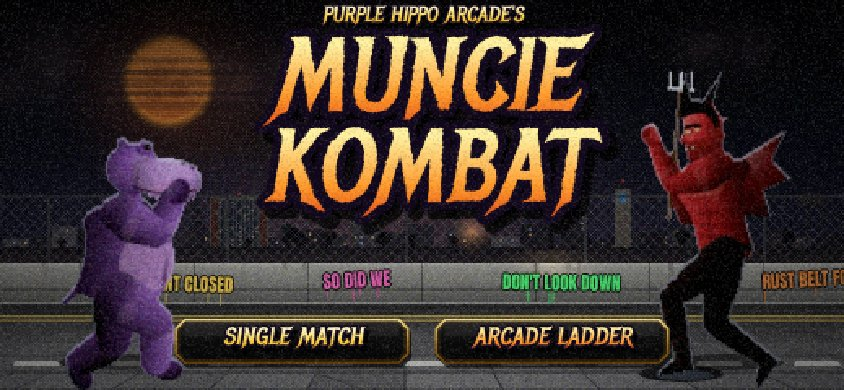
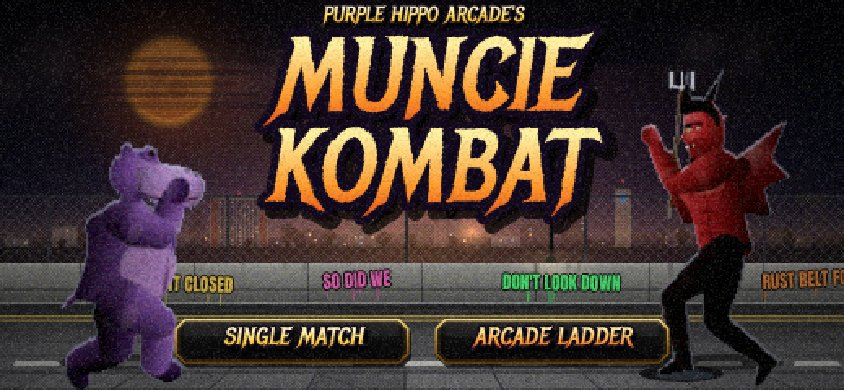
Glowier night over the title and ending screens; ending line: But Muncie will always be Muncie.
Claude-Session: https://claude.ai/code/session_01RATZJKSN4G9uQqnnTt55ev

diff --git a/js/config.js b/js/config.js
@@ -11,9 +11,18 @@ function overpassBackdrop(g, W, H, t) {
     g.imageSmoothingEnabled = false;
     g.drawImage(st.back, 730 - W / 2 / S, y0, W / S, H / S, 0, 0, W, H);
     g.imageSmoothingEnabled = true;
+    // a warm glow off the city and a cooler haze above it, added light so the night feels lit up
+    { g.save(); g.globalCompositeOperation = 'lighter';
+      let gl = g.createRadialGradient(W / 2, 150, 10, W / 2, 150, W * 0.6); gl.addColorStop(0, 'rgba(255,140,60,0.22)'); gl.addColorStop(0.5, 'rgba(160,60,60,0.10)'); gl.addColorStop(1, 'rgba(0,0,0,0)');
+      g.fillStyle = gl; g.fillRect(0, 40, W, 160);
+      gl = g.createLinearGradient(0, 110, 0, 160); gl.addColorStop(0, 'rgba(0,0,0,0)'); gl.addColorStop(0.7, 'rgba(255,170,90,0.16)'); gl.addColorStop(1, 'rgba(0,0,0,0)');
+      g.fillStyle = gl; g.fillRect(0, 110, W, 50);
+      gl = g.createRadialGradient(W / 2, 60, 10, W / 2, 60, W * 0.7); gl.addColorStop(0, 'rgba(120,80,160,0.12)'); gl.addColorStop(1, 'rgba(0,0,0,0)');
+      g.fillStyle = gl; g.fillRect(0, 0, W, 150);
+      g.restore(); }
     // a harvest moon, heavy and orange, smeared by haze and cloud
     { const mx = Math.max(30, Math.min(W * 0.2, W / 2 - 148)), my = 50, mr = 23, PI = Math.PI;
-      let m = g.createRadialGradient(mx, my, mr * 0.5, mx, my, mr * 3.2); m.addColorStop(0, 'rgba(255,140,40,0.28)'); m.addColorStop(0.4, 'rgba(200,80,30,0.12)'); m.addColorStop(1, 'rgba(120,40,30,0)');
+      let m = g.createRadialGradient(mx, my, mr * 0.5, mx, my, mr * 3.2); m.addColorStop(0, 'rgba(255,150,50,0.42)'); m.addColorStop(0.4, 'rgba(220,90,30,0.18)'); m.addColorStop(1, 'rgba(120,40,30,0)');
       g.fillStyle = m; g.fillRect(mx - mr * 3.2, my - mr * 3.2, mr * 6.4, mr * 6.4);
       for (let i = 4; i >= 0; i--) { g.fillStyle = `rgba(232,${128 + i * 6},${46 + i * 4},${0.16 + (4 - i) * 0.17})`; g.beginPath(); g.arc(mx, my, mr + i * 1.6, 0, PI * 2); g.fill(); }
       g.fillStyle = 'rgba(150,64,24,0.32)'; for (const [dx, dy, r] of [[-7, -6, 7], [6, 5, 6], [2, -11, 3.5], [-9, 9, 4.5], [10, -4, 2.5]]) { g.beginPath(); g.arc(mx + dx, my + dy, r, 0, PI * 2); g.fill(); }
@@ -74,8 +83,7 @@ window.GAME = {
     TXT.draw(g, 'YOU WIN THE GAME!', W / 2, 10 + big, { size: 18, align: 'center', fill: 'gold' });
     const band = g.createLinearGradient(0, 192, 0, H); band.addColorStop(0, 'rgba(0,0,0,0)'); band.addColorStop(0.35, 'rgba(0,0,0,0.7)'); band.addColorStop(1, 'rgba(0,0,0,0.85)');
     g.fillStyle = band; g.fillRect(0, 192, W, H - 192);
-    TXT.draw(g, "BUT YOU DIDN'T SAVE MUNCIE FROM ITSELF. NO ONE CAN DO THAT.", W / 2, 211, { size: 9, align: 'center', fill: 'white', italic: false });
-    TXT.draw(g, 'LET THAT WISDOM CARRY YOU.', W / 2, 224, { size: 9, align: 'center', fill: 'white', italic: false });
+    TXT.draw(g, 'BUT MUNCIE WILL ALWAYS BE MUNCIE.', W / 2, 214, { size: 11, align: 'center', fill: 'white', italic: false });
   },
 
   // ---------- the announcer: the same recorded robot as POTUS Kombat, crackling over the radio ----------

diff --git a/index.html b/index.html
@@ -14,7 +14,7 @@
 <link rel="icon" type="image/png" href="icons/icon-192.png">
 <link rel="preload" href="engine/fonts/anton.woff2" as="font" type="font/woff2" crossorigin>
 <link rel="preload" href="engine/fonts/metal-mania.woff2" as="font" type="font/woff2" crossorigin>
-<link rel="stylesheet" href="engine/kombat.css?v=187.1">
+<link rel="stylesheet" href="engine/kombat.css?v=187.2">
 </head>
 <body>
 <canvas id="game"></canvas>
@@ -27,18 +27,18 @@
 <button id="pauseBtn" aria-label="Pause">II PAUSE</button>
 <div id="rotate"><div class="phone"></div>TURN YOUR PHONE SIDEWAYS<br><span style="font-size:14px;color:#d8261c">MUNCIE KOMBAT PLAYS IN LANDSCAPE</span></div>
 <!-- Kombat Engine 1.8.0 (engine/) + Muncie Kombat content (js/) -->
-<script src="engine/text.js?v=187.1"></script>
-<script src="engine/rig.js?v=187.1"></script>
-<script src="engine/fighterkit.js?v=187.1"></script>
-<script src="js/fighters.js?v=187.1"></script>
-<script src="engine/fx.js?v=187.1"></script>
-<script src="engine/stagekit.js?v=187.1"></script>
-<script src="js/stages.js?v=187.1"></script>
-<script src="engine/audio.js?v=187.1"></script>
-<script src="engine/fatal.js?v=187.1"></script>
-<script src="js/fatalities.js?v=187.1"></script>
-<script src="js/config.js?v=187.1"></script>
-<script src="engine/game.js?v=187.1"></script>
-<script src="engine/install.js?v=187.1" data-name="Muncie Kombat" data-key="mk" data-accent="#d8261c"></script>
+<script src="engine/text.js?v=187.2"></script>
+<script src="engine/rig.js?v=187.2"></script>
+<script src="engine/fighterkit.js?v=187.2"></script>
+<script src="js/fighters.js?v=187.2"></script>
+<script src="engine/fx.js?v=187.2"></script>
+<script src="engine/stagekit.js?v=187.2"></script>
+<script src="js/stages.js?v=187.2"></script>
+<script src="engine/audio.js?v=187.2"></script>
+<script src="engine/fatal.js?v=187.2"></script>
+<script src="js/fatalities.js?v=187.2"></script>
+<script src="js/config.js?v=187.2"></script>
+<script src="engine/game.js?v=187.2"></script>
+<script src="engine/install.js?v=187.2" data-name="Muncie Kombat" data-key="mk" data-accent="#d8261c"></script>
 </body>
 </html>
